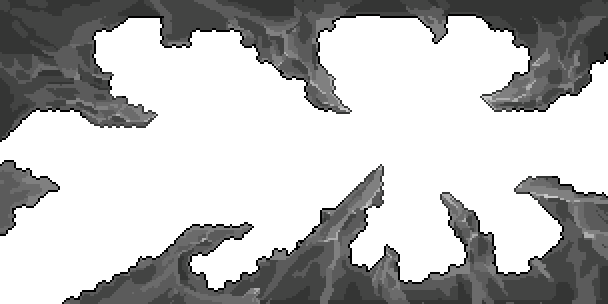
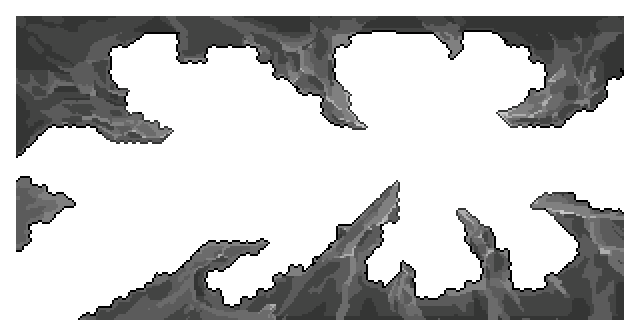
New rooms.

Changed region(s): [[0.0, 0.0, 1.0, 0.4737], [0.0938, 0.5329, 1.0, 1.0], [0.0, 0.5033, 0.125, 0.7697]]

diff --git a/Sources/Modules/Yggdrasil/YggdrasilTown/Tiles/TwilightForest/RoomScenes/RubyDarkGoldChest_BloodyChurch.cs b/Sources/Modules/Yggdrasil/YggdrasilTown/Tiles/TwilightForest/RoomScenes/RubyDarkGoldChest_BloodyChurch.cs
@@ -1,0 +1,162 @@
+using Everglow.Yggdrasil.YggdrasilTown.Items.Placeables.Furniture.TwilightForest;
+using Terraria.DataStructures;
+using Terraria.Enums;
+using Terraria.GameContent.ObjectInteractions;
+using Terraria.Localization;
+using Terraria.ObjectData;
+
+namespace Everglow.Yggdrasil.YggdrasilTown.Tiles.TwilightForest.RoomScenes;
+
+public class RubyDarkGoldChest_BloodyChurch : ModTile
+{
+	public override void SetStaticDefaults()
+	{
+		Main.tileSpelunker[Type] = true;
+		Main.tileContainer[Type] = true;
+		Main.tileFrameImportant[Type] = true;
+		Main.tileNoAttach[Type] = true;
+		Main.tileOreFinderPriority[Type] = 500;
+		TileID.Sets.HasOutlines[Type] = true;
+		TileID.Sets.BasicChest[Type] = true;
+		TileID.Sets.DisableSmartCursor[Type] = true;
+		TileID.Sets.AvoidedByNPCs[Type] = true;
+		TileID.Sets.InteractibleByNPCs[Type] = true;
+		TileID.Sets.IsAContainer[Type] = true;
+		TileID.Sets.FriendlyFairyCanLureTo[Type] = true;
+
+		DustType = DustID.Gold;
+		AdjTiles = new int[] { TileID.Containers };
+
+		TileObjectData.newTile.CopyFrom(TileObjectData.Style2x2);
+		TileObjectData.newTile.Origin = new Point16(0, 1);
+		TileObjectData.newTile.CoordinateHeights = new[] { 16, 18 };
+		TileObjectData.newTile.HookCheckIfCanPlace = new PlacementHook(Chest.FindEmptyChest, -1, 0, true);
+		TileObjectData.newTile.HookPostPlaceMyPlayer = new PlacementHook(Chest.AfterPlacement_Hook, -1, 0, false);
+		TileObjectData.newTile.AnchorInvalidTiles = new int[]
+		{
+			TileID.MagicalIceBlock,
+			TileID.Boulder,
+			TileID.BouncyBoulder,
+			TileID.LifeCrystalBoulder,
+			TileID.RollingCactus,
+		};
+		TileObjectData.newTile.StyleHorizontal = true;
+		TileObjectData.newTile.LavaDeath = false;
+		TileObjectData.newTile.AnchorBottom = new AnchorData(AnchorType.SolidTile | AnchorType.SolidWithTop | AnchorType.SolidSide, TileObjectData.newTile.Width, 0);
+		TileObjectData.addTile(Type);
+		AddMapEntry(new Color(127, 96, 104));
+	}
+
+	public override ushort GetMapOption(int i, int j)
+	{
+		return (ushort)(Main.tile[i, j].TileFrameX / 36);
+	}
+
+	public override LocalizedText DefaultContainerName(int frameX, int frameY)
+	{
+		int option = frameX / 36;
+		return this.GetLocalization("MapEntry" + option);
+	}
+
+	public override bool HasSmartInteract(int i, int j, SmartInteractScanSettings settings)
+	{
+		return true;
+	}
+
+	public static string MapChestName(string name, int i, int j)
+	{
+		int left = i;
+		int top = j;
+		Tile tile = Main.tile[i, j];
+		if (tile.TileFrameX % 36 != 0)
+		{
+			left--;
+		}
+
+		if (tile.TileFrameY != 0)
+		{
+			top--;
+		}
+
+		int chest = Chest.FindChest(left, top);
+		if (chest < 0)
+		{
+			return Language.GetTextValue("LegacyChestType.0");
+		}
+
+		if (Main.chest[chest].name == string.Empty)
+		{
+			return name;
+		}
+
+		return name + ": " + Main.chest[chest].name;
+	}
+
+	public override void NumDust(int i, int j, bool fail, ref int num)
+	{
+		num = 1;
+	}
+
+	public override bool RightClick(int i, int j)
+	{
+		return FurnitureUtils.ChestRightClick(i, j);
+	}
+
+	public override void MouseOver(int i, int j)
+	{
+		Player player = Main.LocalPlayer;
+		Tile tile = Main.tile[i, j];
+		int left = i;
+		int top = j;
+		if (tile.TileFrameX % 36 != 0)
+		{
+			left--;
+		}
+
+		if (tile.TileFrameY != 0)
+		{
+			top--;
+		}
+
+		int chest = Chest.FindChest(left, top);
+		player.cursorItemIconID = -1;
+		if (chest < 0)
+		{
+			player.cursorItemIconText = Language.GetTextValue("LegacyChestType.0");
+		}
+		else
+		{
+			string defaultName = TileLoader.DefaultContainerName(tile.TileType, tile.TileFrameX, tile.TileFrameY); // This gets the ContainerName text for the currently selected language
+			player.cursorItemIconText = Main.chest[chest].name.Length > 0 ? Main.chest[chest].name : defaultName;
+			if (player.cursorItemIconText == defaultName)
+			{
+				player.cursorItemIconID = ModContent.ItemType<RubyDarkGoldChest_BloodyChurch_Item>();
+				if (Main.tile[left, top].TileFrameX / 36 == 1)
+				{
+					// player.cursorItemIconID = ModContent.ItemType<>();
+				}
+
+				player.cursorItemIconText = string.Empty;
+			}
+		}
+
+		player.noThrow = 2;
+		player.cursorItemIconEnabled = true;
+	}
+
+	public override void MouseOverFar(int i, int j)
+	{
+		MouseOver(i, j);
+		Player player = Main.LocalPlayer;
+		if (player.cursorItemIconText == string.Empty)
+		{
+			player.cursorItemIconEnabled = false;
+			player.cursorItemIconID = ItemID.None;
+		}
+	}
+
+	public override void PostDraw(int i, int j, SpriteBatch spriteBatch)
+	{
+		base.PostDraw(i, j, spriteBatch);
+	}
+}

diff --git a/Sources/Modules/Yggdrasil/YggdrasilTown/Tiles/TwilightForest/RoomScenes/BloodChurch_Scene.cs b/Sources/Modules/Yggdrasil/YggdrasilTown/Tiles/TwilightForest/RoomScenes/BloodChurch_Scene.cs
@@ -4,7 +4,7 @@ using Everglow.Yggdrasil.YggdrasilTown.Tiles.LampWood;
 
 namespace Everglow.Yggdrasil.YggdrasilTown.Tiles.TwilightForest.RoomScenes;
 
-public class StoneCave_Scene : ModTile, ISceneTile
+public class BloodChurch_Scene : ModTile, ISceneTile
 {
 	public override void SetStaticDefaults()
 	{
@@ -30,10 +30,12 @@ public class StoneCave_Scene : ModTile, ISceneTile
 
 	public void AddScene(int i, int j)
 	{
-		var scene_Close = new StoneCave_Scene_Close { position = new Vector2(i, j) * 16, Active = true, Visible = true, originTile = new Point(i, j), originType = Type };
-		var scene_Background = new StoneCave_Scene_Background { position = new Vector2(i, j) * 16, Active = true, Visible = true, originTile = new Point(i, j), originType = Type };
-		var scene_Far = new StoneCave_Scene_Far { position = new Vector2(i, j) * 16, Active = true, Visible = true, originTile = new Point(i, j), originType = Type };
+		var scene_Close = new BloodChurch_Scene_Close { position = new Vector2(i, j) * 16, Active = true, Visible = true, originTile = new Point(i, j), originType = Type };
+		var scene_Fountain = new BloodChurch_Scene_Fountain { position = new Vector2(i, j) * 16, Active = true, Visible = true, originTile = new Point(i, j), originType = Type };
+		var scene_Background = new BloodChurch_Scene_Background { position = new Vector2(i, j) * 16, Active = true, Visible = true, originTile = new Point(i, j), originType = Type };
+		var scene_Far = new BloodChurch_Scene_Far { position = new Vector2(i, j) * 16, Active = true, Visible = true, originTile = new Point(i, j), originType = Type };
 		Ins.VFXManager.Add(scene_Close);
+		Ins.VFXManager.Add(scene_Fountain);
 		Ins.VFXManager.Add(scene_Background);
 		Ins.VFXManager.Add(scene_Far);
 	}

diff --git a/Sources/Modules/Yggdrasil/YggdrasilTown/Items/Placeables/GreenRelicBrick_Item.cs b/Sources/Modules/Yggdrasil/YggdrasilTown/Items/Placeables/GreenRelicBrick_Item.cs
@@ -11,7 +11,7 @@ public class GreenRelicBrick_Item : ModItem
 
 	public override void SetDefaults()
 	{
-		Item.DefaultToPlaceableTile(ModContent.TileType<StoneCave_Scene>());
+		Item.DefaultToPlaceableTile(ModContent.TileType<BloodChurch_Scene>());
 		Item.width = 16;
 		Item.height = 16;
 	}
@@ -22,25 +22,25 @@ public class GreenRelicBrick_Item : ModItem
 		if (Main.mouseRight && Main.mouseRightRelease)
 		{
 			Point point = Main.MouseWorld.ToTileCoordinates();
-			var checkTiles = YggdrasilWorldGeneration.BFSContinueTile(point,true, 1024);
+			var checkTiles = YggdrasilWorldGeneration.BFSContinueTile(point, true, 1024);
 			foreach (var tile in checkTiles)
 			{
-				//if (tile.TileType == TileID.GreenDungeonBrick)
-				//{
-				//	tile.TileType = (ushort)ModContent.TileType<GreenRelicBrick>();
-				//}
+				if (tile.TileType == TileID.GreenDungeonBrick)
+				{
+					tile.TileType = (ushort)ModContent.TileType<GreenRelicBrick>();
+				}
 
-				//if (tile.WallType == WallID.GreenDungeonSlab)
-				//{
-				//	tile.WallType = (ushort)ModContent.WallType<GreenRelicWall>();
-				//}
-				//if (tile.WallType == WallID.GreenDungeon)
-				//{
-				//	tile.WallType = (ushort)ModContent.WallType<GreenRelicWall_Style2>();
-				//}
-				tile.wall = 0;
+				if (tile.WallType == WallID.GreenDungeonSlab)
+				{
+					tile.WallType = (ushort)ModContent.WallType<GreenRelicWall>();
+				}
+				if (tile.WallType == WallID.GreenDungeon)
+				{
+					tile.WallType = (ushort)ModContent.WallType<GreenRelicWall_Style2>();
+				}
+
+				// tile.wall = 0;
 			}
-			Main.NewText(checkTiles.Count);
 		}
 	}
 }

diff --git a/Sources/Modules/Yggdrasil/YggdrasilTown/Tiles/TwilightForest/RoomScenes/BloodChurch_Scene_Fountain.cs b/Sources/Modules/Yggdrasil/YggdrasilTown/Tiles/TwilightForest/RoomScenes/BloodChurch_Scene_Fountain.cs
@@ -1,0 +1,28 @@
+using Everglow.Commons.VFX.Scene;
+
+namespace Everglow.Yggdrasil.YggdrasilTown.Tiles.TwilightForest.RoomScenes;
+
+[Pipeline(typeof(WCSPipeline))]
+public class BloodChurch_Scene_Fountain : BackgroundVFX
+{
+	public override CodeLayer DrawLayer => CodeLayer.PostDrawBG;
+
+	public override void OnSpawn()
+	{
+		texture = ModAsset.BloodChurch_Scene_Fountain.Value;
+	}
+
+	public override void Draw()
+	{
+		List<Vertex2D> bars = new List<Vertex2D>();
+		SceneUtils.DrawMultiSceneTowardRightBottom(originTile.X + 17, originTile.Y + 10, texture, bars);
+		Ins.Batch.Draw(texture, bars, PrimitiveType.TriangleList);
+		//DrawWaterFlow();
+	}
+
+	public void DrawWaterFlow()
+	{
+		Texture2D waterStyle = Commons.ModAsset.Noise_flame_2.Value;
+		List<Vertex2D> bars = new List<Vertex2D>();
+	}
+}

diff --git a/Sources/Modules/Yggdrasil/YggdrasilTown/Tiles/TwilightForest/RoomScenes/BloodChurch_Scene_Background.cs b/Sources/Modules/Yggdrasil/YggdrasilTown/Tiles/TwilightForest/RoomScenes/BloodChurch_Scene_Background.cs
@@ -1,0 +1,21 @@
+using Everglow.Commons.VFX.Scene;
+
+namespace Everglow.Yggdrasil.YggdrasilTown.Tiles.TwilightForest.RoomScenes;
+
+[Pipeline(typeof(WCSPipeline))]
+public class BloodChurch_Scene_Background : BackgroundVFX
+{
+	public override CodeLayer DrawLayer => CodeLayer.PostDrawBG;
+
+	public override void OnSpawn()
+	{
+		texture = ModAsset.BloodChurch_Scene_Background.Value;
+	}
+
+	public override void Draw()
+	{
+		List<Vertex2D> bars = new List<Vertex2D>();
+		SceneUtils.DrawMultiSceneTowardRightBottom(originTile.X, originTile.Y, texture, bars);
+		Ins.Batch.Draw(texture, bars, PrimitiveType.TriangleList);
+	}
+}

diff --git a/Sources/Modules/Yggdrasil/YggdrasilTown/Tiles/TwilightForest/RoomScenes/BloodChurch_Scene_Close.cs b/Sources/Modules/Yggdrasil/YggdrasilTown/Tiles/TwilightForest/RoomScenes/BloodChurch_Scene_Close.cs
@@ -1,0 +1,21 @@
+using Everglow.Commons.VFX.Scene;
+
+namespace Everglow.Yggdrasil.YggdrasilTown.Tiles.TwilightForest.RoomScenes;
+
+[Pipeline(typeof(WCSPipeline))]
+public class BloodChurch_Scene_Close : BackgroundVFX
+{
+	public override CodeLayer DrawLayer => CodeLayer.PostDrawTiles;
+
+	public override void OnSpawn()
+	{
+		texture = ModAsset.BloodChurch_Scene_Close.Value;
+	}
+
+	public override void Draw()
+	{
+		List<Vertex2D> bars = new List<Vertex2D>();
+		SceneUtils.DrawMultiSceneTowardRightBottom(originTile.X, originTile.Y, texture, bars);
+		Ins.Batch.Draw(texture, bars, PrimitiveType.TriangleList);
+	}
+}

diff --git a/Sources/Modules/Yggdrasil/YggdrasilTown/Tiles/TwilightForest/RoomScenes/BloodChurch_Scene_Far.cs b/Sources/Modules/Yggdrasil/YggdrasilTown/Tiles/TwilightForest/RoomScenes/BloodChurch_Scene_Far.cs
@@ -1,0 +1,21 @@
+using Everglow.Commons.VFX.Scene;
+
+namespace Everglow.Yggdrasil.YggdrasilTown.Tiles.TwilightForest.RoomScenes;
+
+[Pipeline(typeof(WCSPipeline))]
+public class BloodChurch_Scene_Far : BackgroundVFX
+{
+	public override CodeLayer DrawLayer => CodeLayer.PostDrawBG;
+
+	public override void OnSpawn()
+	{
+		texture = ModAsset.BloodChurch_Scene_Far.Value;
+	}
+
+	public override void Draw()
+	{
+		List<Vertex2D> bars = new List<Vertex2D>();
+		SceneUtils.DrawMultiSceneTowardRightBottom(originTile.X, originTile.Y, texture, bars);
+		Ins.Batch.Draw(texture, bars, PrimitiveType.TriangleList);
+	}
+}

diff --git a/Sources/Modules/Yggdrasil/YggdrasilTown/Items/Placeables/Furniture/TwilightForest/RubyDarkGoldChest_BloodyChurch_Item.cs b/Sources/Modules/Yggdrasil/YggdrasilTown/Items/Placeables/Furniture/TwilightForest/RubyDarkGoldChest_BloodyChurch_Item.cs
@@ -1,0 +1,16 @@
+using Everglow.Yggdrasil.YggdrasilTown.Tiles.TwilightForest.RoomScenes;
+
+namespace Everglow.Yggdrasil.YggdrasilTown.Items.Placeables.Furniture.TwilightForest;
+
+public class RubyDarkGoldChest_BloodyChurch_Item : ModItem
+{
+	public override string LocalizationCategory => Everglow.Commons.Utilities.LocalizationUtils.Categories.Placeables;
+
+	public override void SetDefaults()
+	{
+		Item.DefaultToPlaceableTile(ModContent.TileType<RubyDarkGoldChest_BloodyChurch>());
+		Item.width = 32;
+		Item.height = 26;
+		Item.value = 5000;
+	}
+}

diff --git a/Sources/Everglow.Function/VFX/Scene/SceneUtils.cs b/Sources/Everglow.Function/VFX/Scene/SceneUtils.cs
@@ -16,7 +16,7 @@ public class SceneUtils
 	/// <param name="bars"></param>
 	public static void DrawTileCover(int i, int j, Texture2D texture, float startCoordX, float startCoordY, List<Vertex2D> bars)
 	{
-		Vector2 drawPos0 = new Point(i, j).ToWorldCoordinates() + new Vector2(8);
+		Vector2 drawPos0 = new Point(i, j).ToWorldCoordinates() - new Vector2(8);
 		Vector2 drawPos1 = drawPos0 + new Vector2(16, 0);
 		Vector2 drawPos2 = drawPos0 + new Vector2(0, 16);
 		Vector2 drawPos3 = drawPos0 + new Vector2(16, 16);
